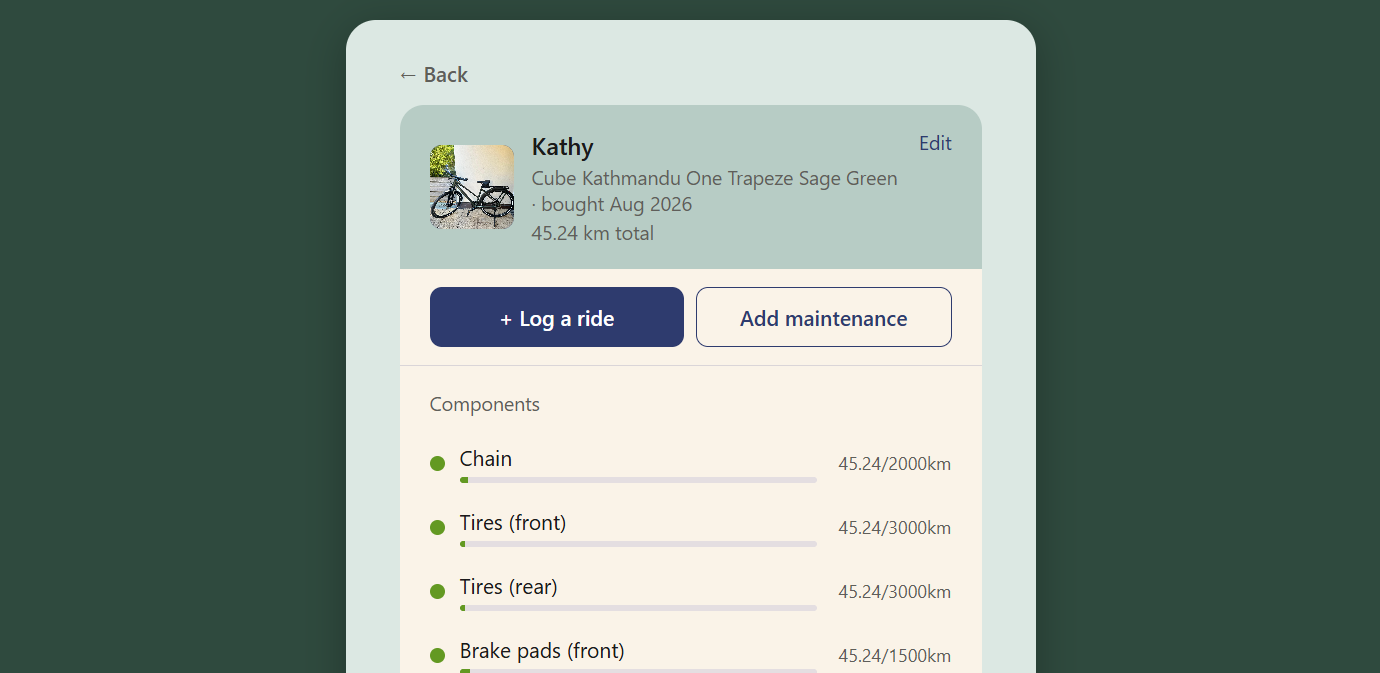
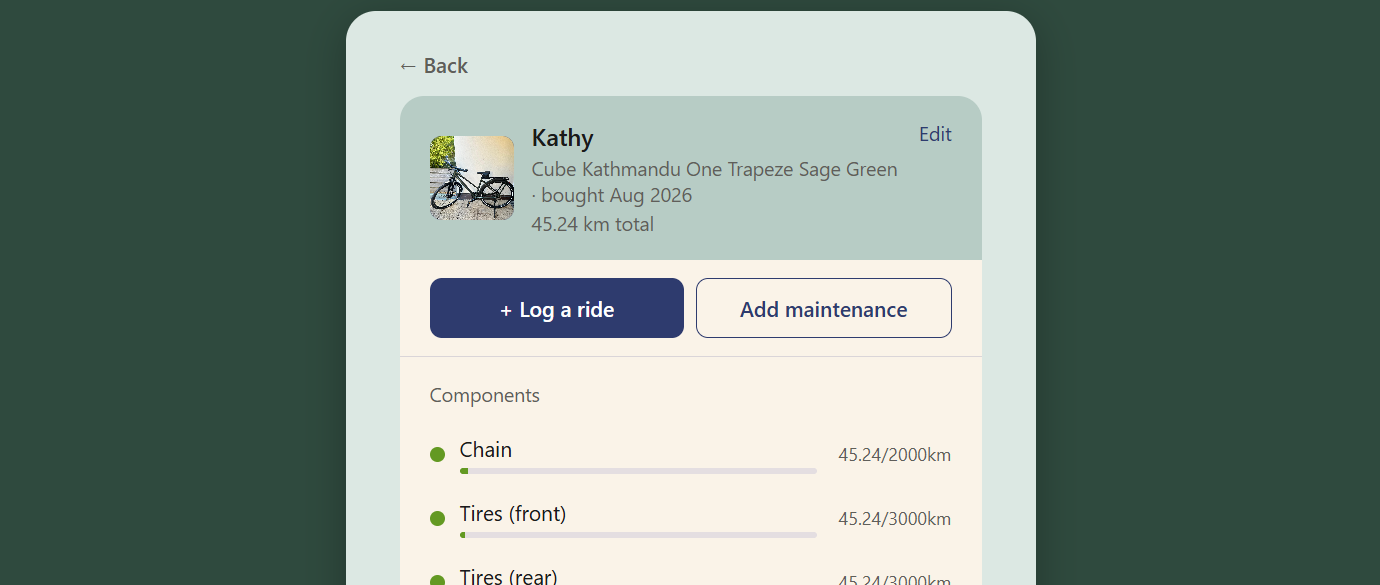
Add descriptor to Spoke Record card title
Title becomes 'Spoke Record: A Digital Bike Passport', mirroring the first card's 'Name: Descriptor' format. Snapshot recropped to the first card's aspect ratio and description trimmed so both cards stay the same height.

diff --git a/index.html b/index.html
@@ -315,8 +315,8 @@
                     class="project-img"
                     />
                 </div>
-                <h2 class="experience-sub-title project-title">Spoke Record</h2>
-                <p class="project-description">A digital passport for the bikes you own, tracking components, wear, service history, and purchase receipts so you keep a clear ownership and maintenance record for each bike. Built as an installable PWA.</p>
+                <h2 class="experience-sub-title project-title">Spoke Record: A Digital Bike Passport</h2>
+                <p class="project-description">Track components, wear, service history, and purchase receipts for every bike you own, keeping a clear ownership and maintenance record in one place. Built as an installable PWA.</p>
                 <div class="btn-container">
                     <button
                     class="btn btn-color-2 project-btn"
